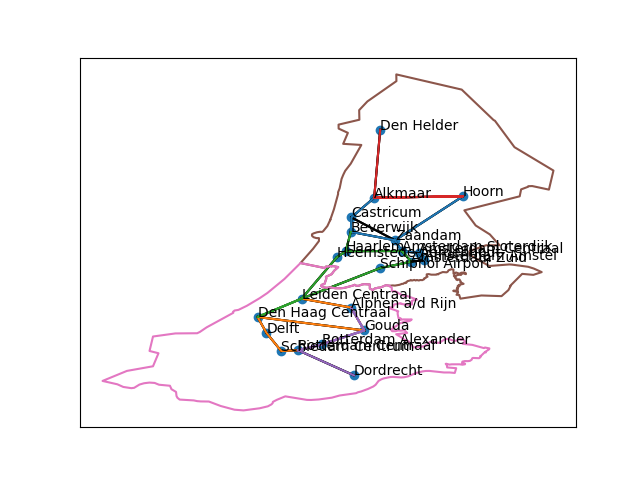
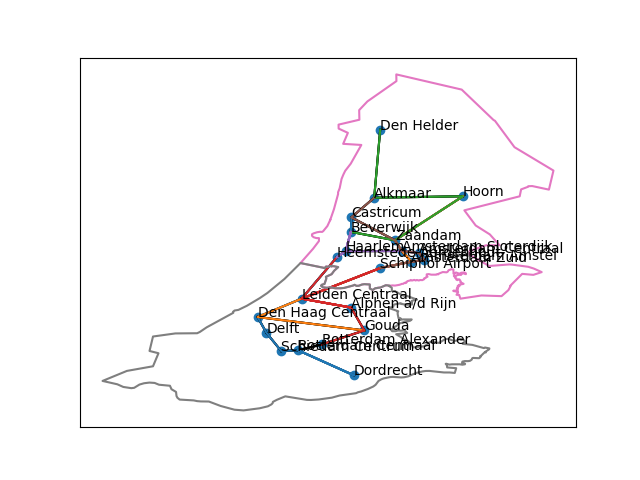
basemap visualisation for holland regions

diff --git a/map.py b/map.py
@@ -1,0 +1,19 @@
+import matplotlib.pyplot as plt
+import geopandas as gpd
+import contextily as cx
+
+
+df = gpd.read_file('data/holland_regions.geojson')
+df_wm = df.to_crs(epsg=3857)
+ax = df_wm.plot(figsize=(10, 10), alpha=0.5, edgecolor='k')
+cx.add_basemap(ax)
+
+plt.show()
+
+# # loading file of boarders of Holland
+# df_places = gpd.read_file('data/holland_regions.geojson')
+
+# # looping through regions in the data file and plotting them in a matplotlib graph
+# for polygon in df_places['geometry']:
+#     x,y = polygon.exterior.xy
+#     plt.plot(x,y)
